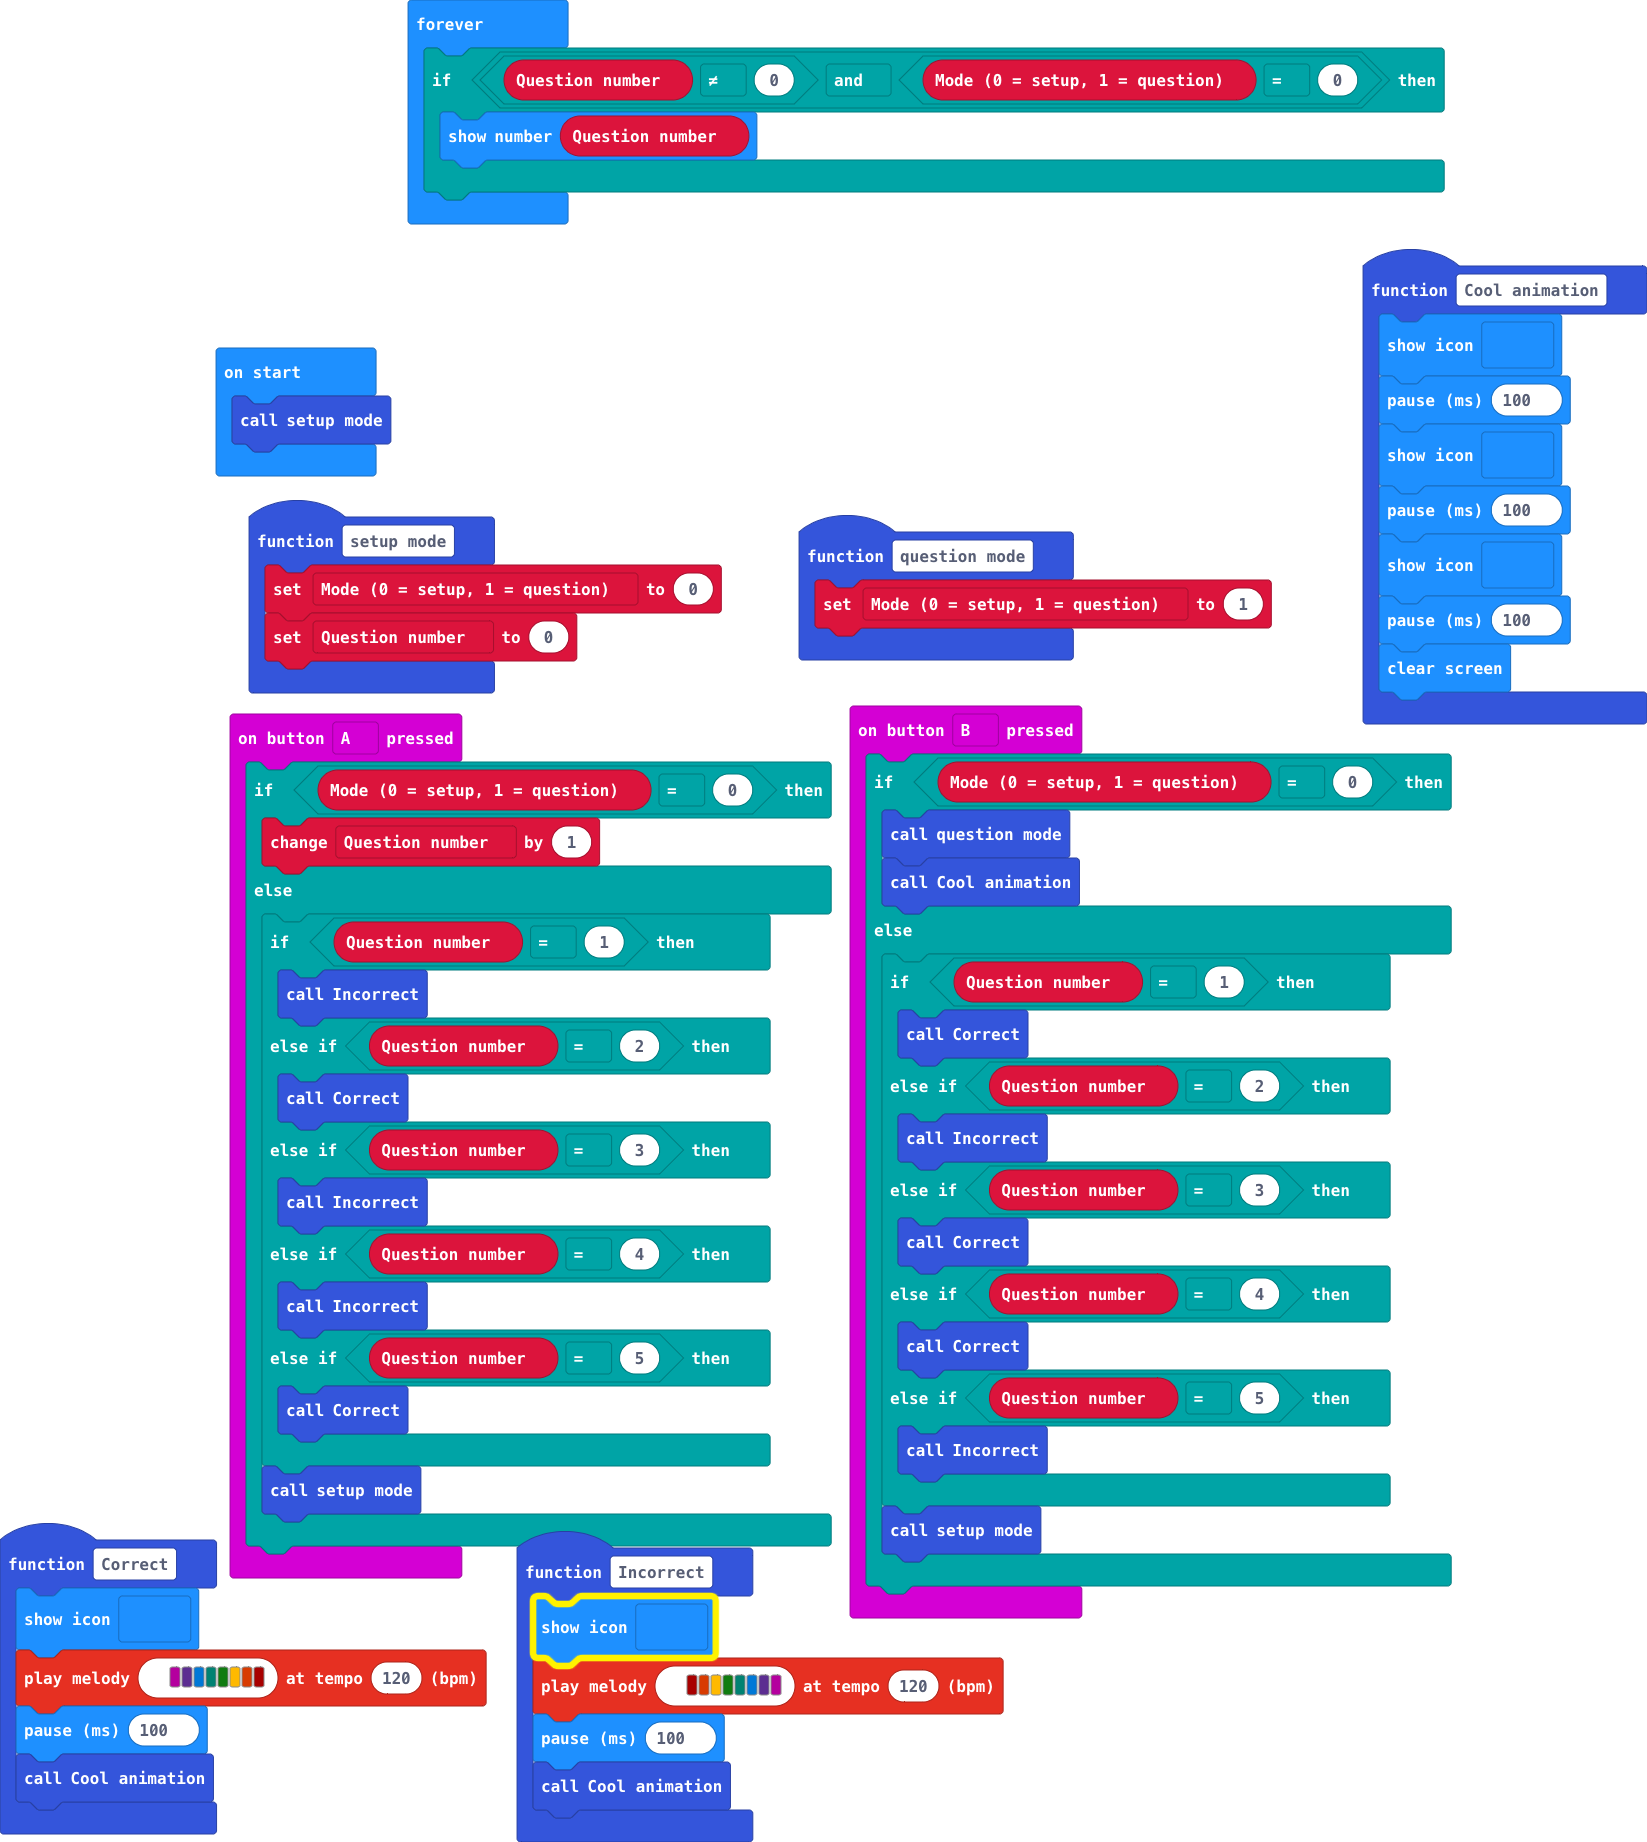
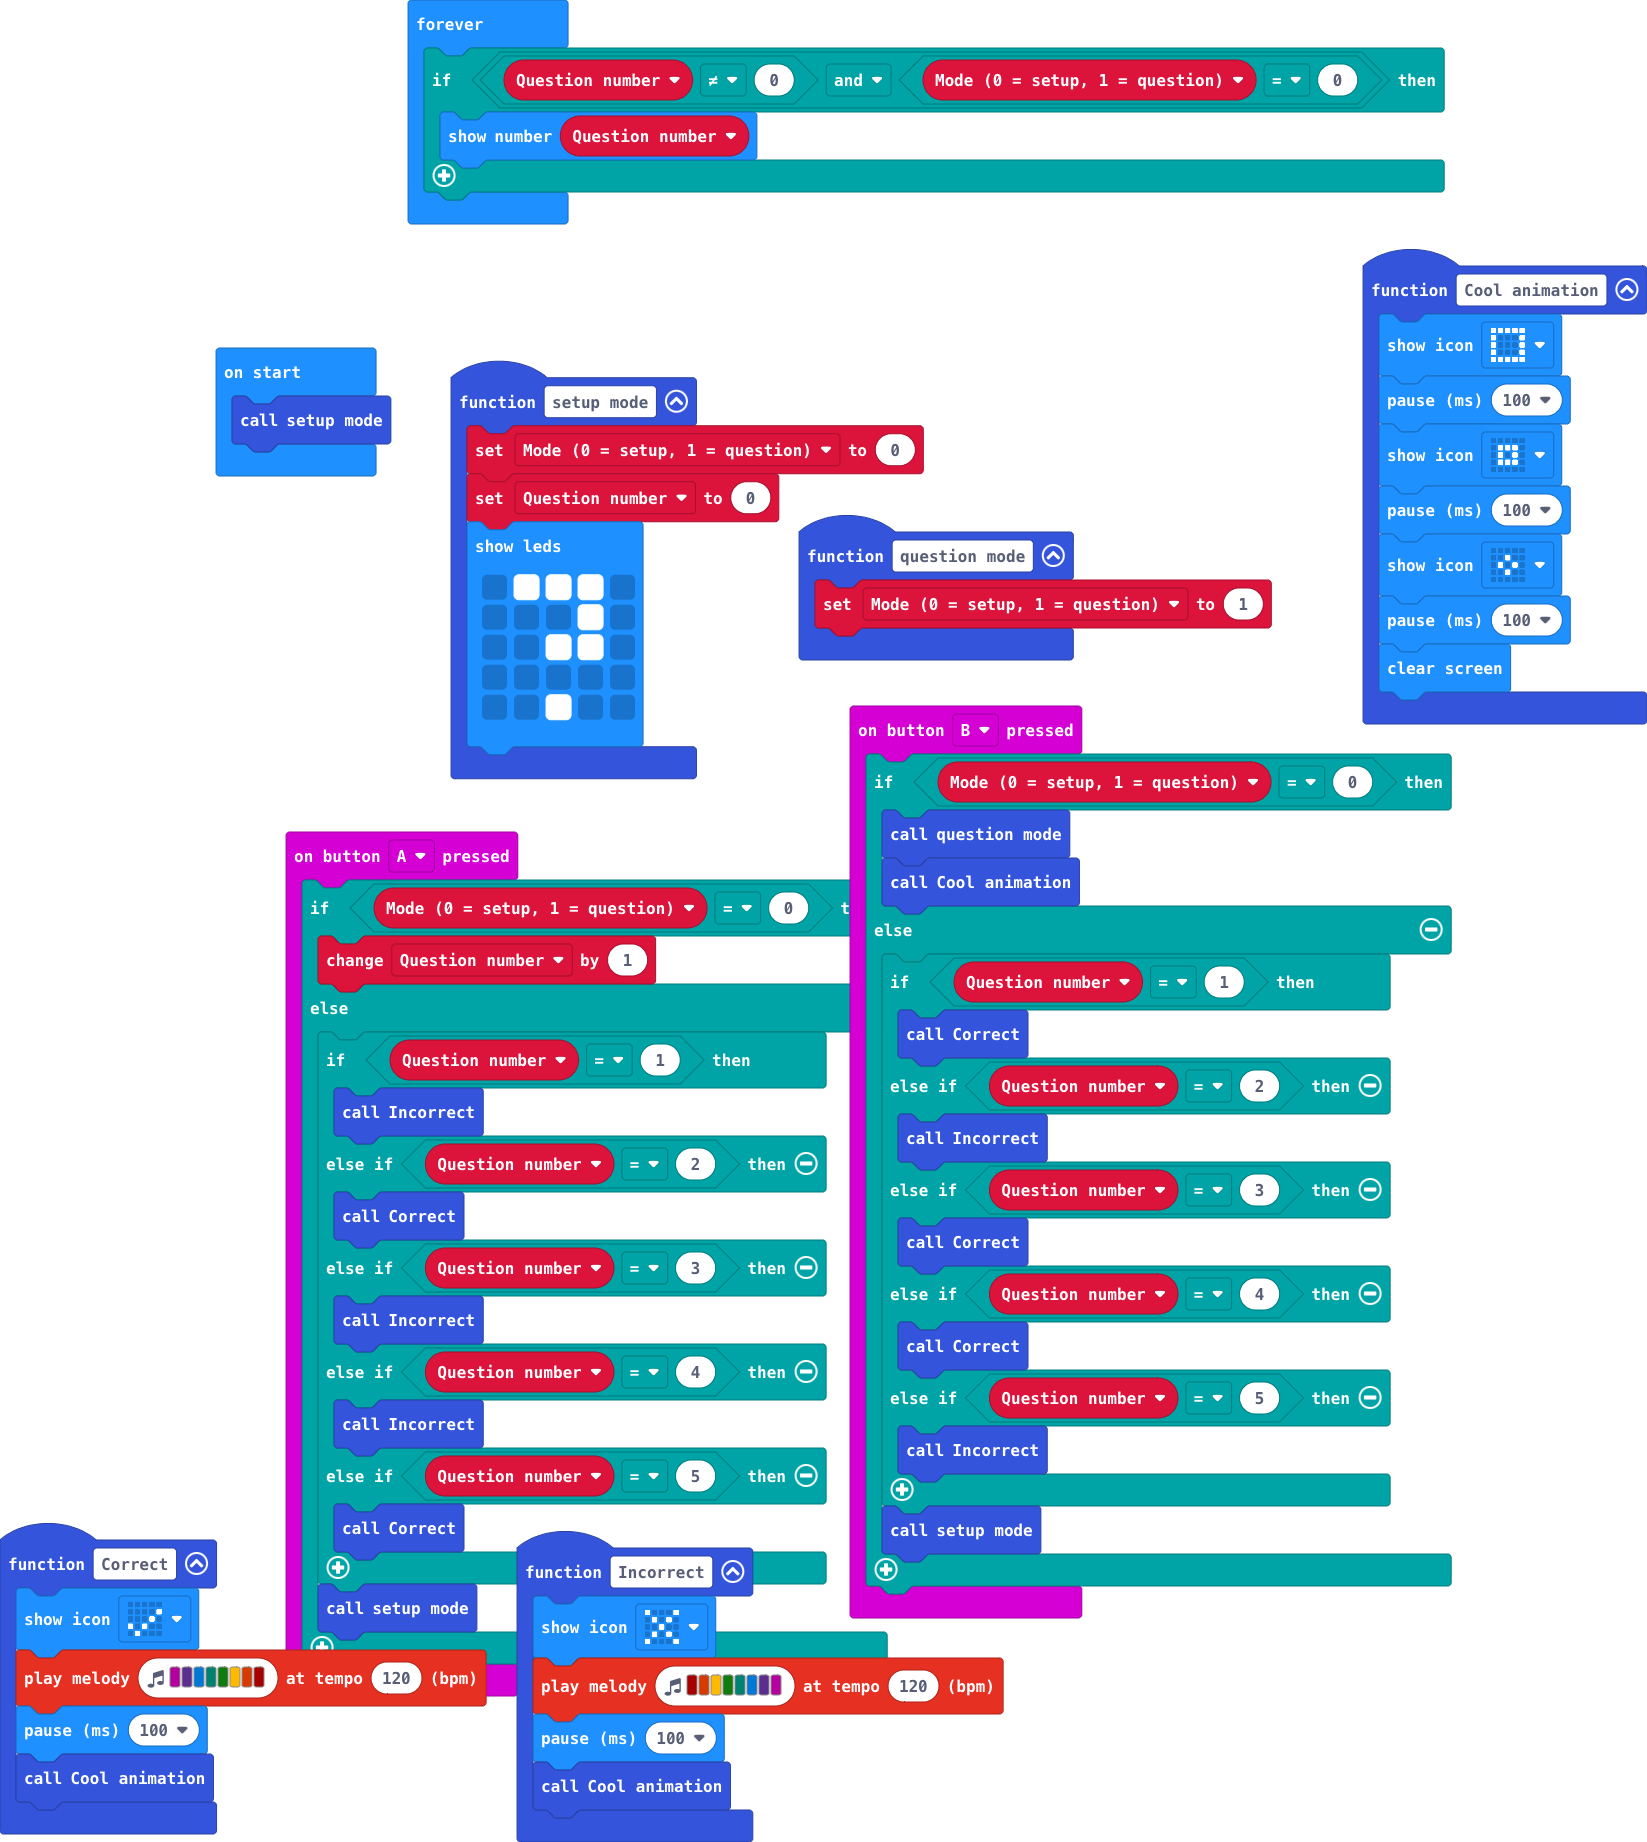
Update main.blocks, main.ts

Changed region(s): [[0.1239, 0.1857, 0.5574, 0.9283], [0.898, 0.1547, 0.929, 0.3094], [0.0619, 0.8664, 0.0929, 0.8974]]

diff --git a/main.ts b/main.ts
@@ -19,6 +19,13 @@ input.onButtonPressed(Button.A, function () {
 function setup_mode () {
     Mode_0__setup_1__question = 0
     Question_number = 0
+    basic.showLeds(`
+        . # # # .
+        . . . # .
+        . . # # .
+        . . . . .
+        . . # . .
+        `)
 }
 input.onButtonPressed(Button.B, function () {
     if (Mode_0__setup_1__question == 0) {
